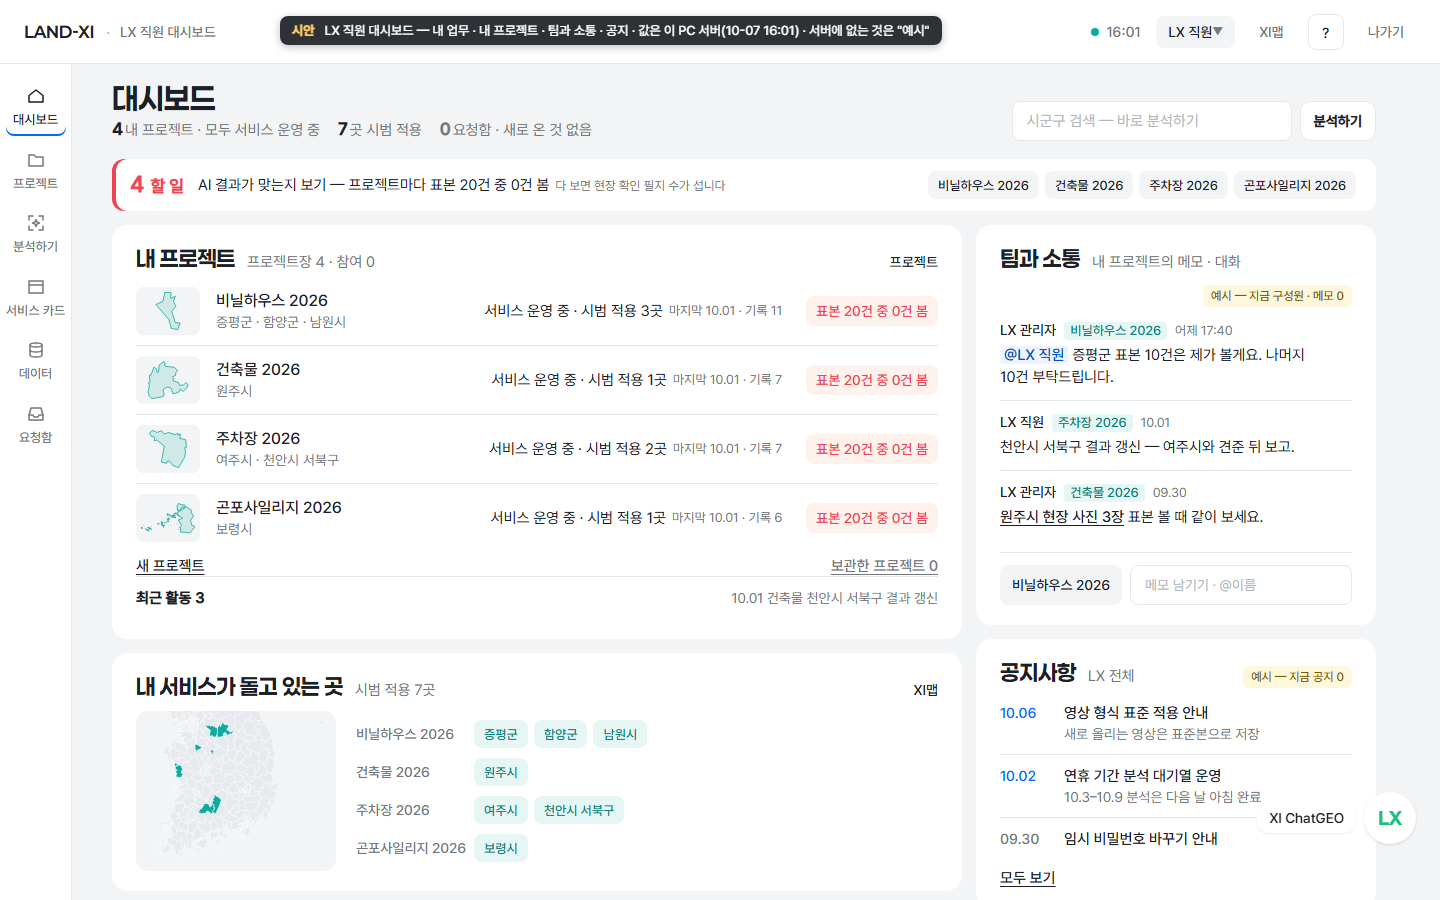
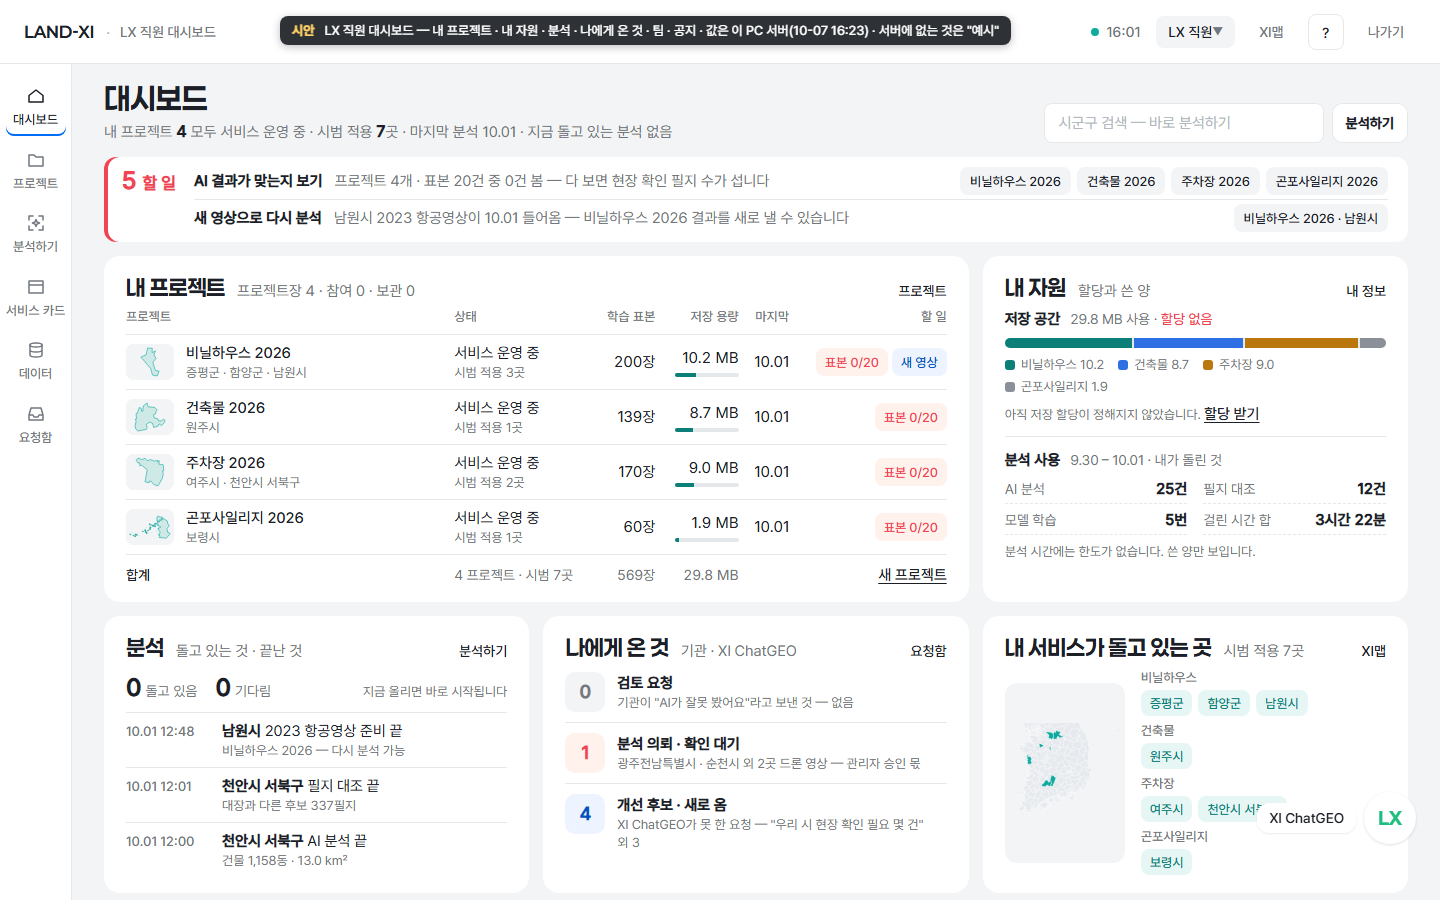
대시보드 확인 페이지 새 판 · '분석 요청' 말 맞춤
Claude-Session: https://claude.ai/code/session_012dngviZxpCDduyLESvgdha

diff --git a/landxi/proto/review/confirm/dash/index.html b/landxi/proto/review/confirm/dash/index.html
@@ -3,7 +3,7 @@
 <head>
 <meta charset="utf-8">
 <meta name="viewport" content="width=device-width,initial-scale=1">
-<title>Land-XI LX 직원 대시보드 — 내 일 중심</title>
+<title>Land-XI LX 직원 대시보드 — 다시</title>
 <link rel="icon" href="data:,">
 <link rel="stylesheet" href="../../../fonts-system.css">
 <style>
@@ -47,11 +47,11 @@ footer input{flex:1;min-width:200px;font:15px Pretendard,sans-serif;padding:10px
 </head>
 <body>
 <main class="w">
-<h1>LX 직원 대시보드 — 내 일 중심</h1>
-<p class="lead">먼저 미리보기를 열어 보세요: app.land-xi.dev/landxi/proto/review/lx-dashboard/index.html (할 일 없을 때는 주소 끝에 ?todo=0). 두 가지만 고르시면 됩니다.</p>
+<h1>LX 직원 대시보드 — 다시</h1>
+<p class="lead">먼저 미리보기를 열어 보세요: app.land-xi.dev/landxi/proto/review/lx-dashboard/index.html (할 일 없을 때 ?todo=0). 화면 넓이를 고르게 쓰고, 직원이 아침에 알고 싶은 것을 서버 값으로 담았습니다.</p>
 <div class="how"><b>보는 법</b> — 항목마다 <b>지금</b>(무엇이 문제인지) · <b>제안</b>(바뀐 뒤) · <b>보는 곳</b>(캡처, 그리고 직접 열어 볼 주소·계정·누를 곳)이 있습니다. 캡처를 누르면 크게 열립니다.<br>
 <b>고르는 법</b> — 버튼을 누르고, 고칠 점이 있으면 한 줄 적어 주세요. 고른 것은 이 브라우저에 저장됩니다. 다 고르시면 아래 <b>결정 복사</b>를 눌러 대화창에 붙여 넣어 주세요. 안 고른 항목은 그대로 두셔도 됩니다.</div>
-<section><h2>LX 직원 대시보드 — &#x27;홈&#x27;이 아니라 대시보드로, 내 일 중심(10-07 답 ⓐ · 모두 Land-XI · LX 직원 화면)</h2><p class="sub">시안 하나(new-dash-*)입니다. 숫자 · 이름 · 지역 · 기록 수는 10월 7일 16시에 로그인 폼으로 들어가 읽은 이 PC 서버의 실제 값이고, 서버에 없는 것(팀 메모 · 공지)은 칸 머리에 &#x27;예시&#x27;라고 적었습니다. 구 Land-XI 플랫폼 대시보드(공지 띠 · 큰 숫자 · 전국 판 · 프로젝트 현황 · 스토리지)를 표로 대조해 공지 · 전국 지도 · 프로젝트 현황의 자리는 이어받고 큰 숫자 띠 · 모델 이름 · 스토리지 · 방문 추세는 뺐습니다(README §1). 단추 · 글자 옆 그림 기호는 넣지 않았습니다(10-07 원칙 126). 미리보기: https://app.land-xi.dev/landxi/proto/review/lx-dashboard/index.html (할 일 없을 때 …/index.html?todo=0).</p><article class="c" data-id="대시-1" data-t="[화면][Land-XI] LX 직원 대시보드 — 이 구성으로 갈까"><header><span class="n">대시-1</span><h3>[화면][Land-XI] LX 직원 대시보드 — 이 구성으로 갈까</h3></header><div class="g"><div class="tx"><p class="k">지금</p><p>지금 홈은 내 프로젝트 3줄 · 우리 서비스(다른 사람 서비스의 운영 2 · 시범 5 · 장면 넷 · 기관 신고 · 재학습 필요) · 요청함 숫자 셋 · 바로 분석하기 · 최근 활동으로, 목록의 축소판이지 대시보드가 아니었습니다. 팀과 소통할 곳과 공지는 없었고, 프로젝트 줄에는 &#x27;6 서비스 관리 · 시범 3곳 · 결과 확인 0/20&#x27;처럼 한 상태가 세 가지 표기로 섰습니다. 10차에 두 방향(A · B)을 그렸지만 &quot;아직 이해가 안 된다&quot;는 답이었습니다.</p><p class="k">제안</p><p>이름은 &#x27;대시보드&#x27;(왼쪽 메뉴 첫 항목 · 마스트는 지금처럼 &#x27;LX 직원 대시보드&#x27;). 한 화면 = ① 머리 한 줄: &#x27;대시보드&#x27; + 작은 글(4 내 프로젝트 · 모두 서비스 운영 중 / 7곳 시범 적용 / 0 요청함 · 새로 온 것 없음) + 오른쪽 시군구 검색 — 바로 분석하기 ② 할 일 띠(있을 때만 · 대시-2) ③ 왼쪽 &#x27;내 프로젝트&#x27;: 줄 넷 — 시군구 모양 그림 · 이름 · 지역 · &#x27;서비스 운영 중 · 시범 적용 3곳&#x27; · &#x27;마지막 10.01 · 기록 11&#x27; · 빨간 꼬리표 &#x27;표본 20건 중 0건 봄&#x27;, 아래 새 프로젝트 · 보관 0 · 접힌 최근 활동 3 ④ 왼쪽 &#x27;내 서비스가 돌고 있는 곳&#x27;: 작은 전국 지도(행정경계 · 7곳 색칠) + 프로젝트별 지역 칩 — 구 대시보드 전국 판의 자리 ⑤ 오른쪽 &#x27;팀과 소통&#x27;: 내 프로젝트의 메모 · 대화 · @이름 부르기(프로젝트 한 장의 &#x27;기록 · 메모 · 파일&#x27;과 같은 곳 — 거기서 쓴 메모가 여기 모임) + 메모 남기기 칸 ⑥ 오른쪽 &#x27;공지사항&#x27;: LX 전체 최근 3 · 안 읽은 것은 날짜가 파랑. 다른 사람 서비스의 현황은 &#x27;서비스 카드&#x27; 메뉴에 그대로 두고 대시보드에서 뺐습니다(내 일 중심 ⓐ). 큰 숫자 띠 · 모델 이름 · 스토리지는 없습니다(규칙 2 · 내 저장 공간은 내 정보). 그림 기호 0. 1440 세로 932(할 일 없을 때 900 · 스크롤 0) · 첫 화면 버튼 1 · 휴대폰은 한 칸씩 세로.</p><p class="k">보는 곳</p><ul class="wh"><li><a href="https://app.land-xi.dev/landxi/proto/review/lx-dashboard/index.html" target="_blank" rel="noopener">app.land-xi.dev/landxi/proto/review/lx-dashboard/index.html</a><span>로그인 없이</span><em>시안 — 위 띠 · 왼쪽 두 칸 · 오른쪽 두 칸. 지금 홈(https://app.land-xi.dev/ · 아이디 test@lx.or.kr · 임시 비밀번호)과 견주어 보기</em></li></ul></div><div class="im"><figure><a href="img/new-dash-1440.png" target="_blank"><img src="img/new-dash-1440.png" alt="" loading="lazy"></a><figcaption>시안</figcaption></figure><figure><a href="img/new-dash-390.png" target="_blank"><img src="img/new-dash-390.png" alt="" loading="lazy"></a><figcaption>시안</figcaption></figure></div></div><footer><div class="op"><button type="button" data-v="ⓐ 이 구성대로">ⓐ 이 구성대로</button><button type="button" data-v="ⓑ 칸을 바꿔(어느 칸을 빼거나 더할지 메모)">ⓑ 칸을 바꿔(어느 칸을 빼거나 더할지 메모)</button><button type="button" data-v="ⓒ 다시">ⓒ 다시</button><button type="button" data-v="검토 필요">검토 필요</button></div><input type="text" placeholder="고칠 점이 있으면 한 줄" aria-label="메모"></footer></article><article class="c" data-id="대시-2" data-t="[화면][Land-XI] 할 일의 자리 — 있을 때만 한 줄 띠 + 줄의 꼬리표"><header><span class="n">대시-2</span><h3>[화면][Land-XI] 할 일의 자리 — 있을 때만 한 줄 띠 + 줄의 꼬리표</h3></header><div class="g"><div class="tx"><p class="k">지금</p><p>19차에 &quot;지금 할 일이 없다면 어떤 모습이지? 굳이 메인 대시보드에 있어야 하나? 너무 크게 의미없게 차지한다&quot;고 하셨습니다. 10차 방향 A는 &#x27;지금 할 일 하나&#x27;를 큰 칸으로, B는 체크 목록으로 두어 할 일이 없을 때 빈 칸이 남았습니다.</p><p class="k">제안</p><p>할 일은 큰 칸이 아니라 ① 머리 아래 &#x27;한 줄 띠&#x27;(높이 52px · 왼쪽 빨간 선 · &#x27;4 할 일 · AI 결과가 맞는지 보기 — 프로젝트마다 표본 20건 중 0건 봄&#x27; + 프로젝트 칩 넷)와 ② 내 프로젝트 줄마다 붙는 빨간 꼬리표(&#x27;표본 20건 중 0건 봄&#x27;)로만 보입니다. 할 일이 없으면 띠는 사라지고(빈 칸을 세우지 않음) 꼬리표는 회색 &#x27;할 일 없음&#x27;, 상태 글 앞에 &#x27;표본 20건 다 봄&#x27;이 붙습니다 — 그때 1440 은 스크롤 0 으로 다 들어옵니다(new-dash-empty-1440). 기관 검토 요청 · 분석 요청이 오면 같은 띠에 함께 섭니다(지금은 0).</p><p class="k">보는 곳</p><ul class="wh"><li><a href="https://app.land-xi.dev/landxi/proto/review/lx-dashboard/index.html?todo=0" target="_blank" rel="noopener">app.land-xi.dev/landxi/proto/review/lx-dashboard/index.html?todo=0</a><span>로그인 없이</span><em>할 일이 없을 때 — 띠가 없고 줄의 꼬리표만 바뀐 모습(…/index.html 과 번갈아 보기)</em></li></ul></div><div class="im"><figure><a href="img/new-dash-1440.png" target="_blank"><img src="img/new-dash-1440.png" alt="" loading="lazy"></a><figcaption>시안</figcaption></figure><figure><a href="img/new-dash-empty-1440.png" target="_blank"><img src="img/new-dash-empty-1440.png" alt="" loading="lazy"></a><figcaption>시안</figcaption></figure></div></div><footer><div class="op"><button type="button" data-v="ⓐ 띠 + 줄 꼬리표(시안대로)">ⓐ 띠 + 줄 꼬리표(시안대로)</button><button type="button" data-v="ⓑ 줄 꼬리표만(띠 없이)">ⓑ 줄 꼬리표만(띠 없이)</button><button type="button" data-v="ⓒ 다른 방식(메모)">ⓒ 다른 방식(메모)</button><button type="button" data-v="검토 필요">검토 필요</button></div><input type="text" placeholder="고칠 점이 있으면 한 줄" aria-label="메모"></footer></article></section>
+<section><h2>LX 직원 대시보드 — 다시(10-07 반려 뒤 · 모두 Land-XI · LX 직원 화면)</h2><p class="sub">앞 시안은 1920 화면에서 내용이 왼쪽 1344px 에 몰려 오른쪽 48% 가 비었고(판 넓이 제한), 칸은 사용자가 든 네 가지뿐이었습니다. 이번에는 ① LX 직원이 아침에 알고 싶은 것 12가지를 먼저 적고 서버에 있는지 하나씩 확인했습니다(README §2 — 프로젝트별 저장 용량 · 내 자원 · 내가 쓴 분석 · 돌고 있는 분석 · 끝난 결과 · 나에게 온 것은 서버에 있음, 팀 메모 · 공지만 &#x27;예시&#x27;). ② 12칸 격자로 넓이 전체를 고르게 썼습니다 — 칸 밖 빈 여백 1440 11.7% · 1920 9.7%(앞 시안 14.5% · 47.8%). 값은 10월 7일 16시 23분에 로그인 폼으로 읽은 서버 값입니다. 단추 · 글자 옆 그림 기호는 없습니다. 미리보기: https://app.land-xi.dev/landxi/proto/review/lx-dashboard/index.html (할 일 없을 때 …/index.html?todo=0).</p><article class="c" data-id="대시-1" data-t="[화면][Land-XI] LX 직원 대시보드 — 이 일곱 칸 · 12칸 격자 배치로 갈까(다시)"><header><span class="n">대시-1</span><h3>[화면][Land-XI] LX 직원 대시보드 — 이 일곱 칸 · 12칸 격자 배치로 갈까(다시)</h3></header><div class="g"><div class="tx"><p class="k">지금</p><p>앞 시안(반려): 내 프로젝트 · 돌고 있는 곳 · 팀과 소통 · 공지 네 칸을 왼쪽 1fr · 오른쪽 400px 두 줄에 세워, 1920 에서는 오른쪽이 통째로 비고 1440 에서도 줄 안이 비었습니다. 용량 · 자원 · 돌고 있는 분석 · 온 것처럼 직원이 매일 보는 것이 없었습니다.</p><p class="k">제안</p><p>한 화면 = 머리 한 줄(대시보드 · &#x27;내 프로젝트 4 모두 서비스 운영 중 · 시범 적용 7곳 · 마지막 분석 10.01 · 지금 돌고 있는 분석 없음&#x27; · 오른쪽 시군구 검색 — 분석하기) + 할 일 띠(있을 때만 · 대시-2) + 일곱 칸을 12칸 격자에: ① 내 프로젝트(8칸) — 표 한 장: 이름 · 지역 | 상태(서비스 운영 중 · 시범 n곳) | 학습 표본 200 · 139 · 170 · 60장 | 저장 용량 10.2 · 8.7 · 9.0 · 1.9 MB(작은 막대) | 마지막 10.01 | 할 일 꼬리표, 합계 줄(569장 · 29.8 MB · 새 프로젝트) ② 내 자원(4칸) — 저장 공간 29.8 MB 사용 · 할당 없음(프로젝트별 쌓은 막대 · &#x27;할당 받기&#x27;) + 분석 사용(9.30–10.01 내가 돌린 것: AI 분석 25건 · 필지 대조 12건 · 모델 학습 5번 · 걸린 시간 합 3시간 22분 · &#x27;한도 없음, 쓴 양만&#x27;) ③ 분석(4칸) — 돌고 있음 0 · 기다림 0 · 최근 끝난 것 3(남원시 영상 준비 끝 · 천안시 서북구 필지 대조 끝 337필지 · 천안시 서북구 AI 분석 끝 건물 1,158동) ④ 나에게 온 것(4칸) — 검토 요청 0 · 분석 요청 1 확인 대기(광주전남 · 관리자 승인 몫) · 개선 후보 4 새로 옴(XI ChatGEO 가 못 한 요청) ⑤ 내 서비스가 돌고 있는 곳(4칸) — 전국 지도 + 프로젝트별 지역 칩 7 ⑥ 팀과 소통(7칸 · 예시) ⑦ 공지사항(5칸 · 예시). 넓이 제한 없이 격자가 넓이를 나눠 1440 · 1920 모두 칸 밖 빈 여백 10% 안팎(앞 14.5% · 47.8%). 1280 이하는 6칸씩, 휴대폰은 한 칸씩(표는 줄 카드). 큰 숫자 띠 없음 · 그림 기호 0 · 다른 사람 서비스 현황은 서비스 카드 메뉴에 그대로.</p><p class="k">보는 곳</p><ul class="wh"><li><a href="https://app.land-xi.dev/landxi/proto/review/lx-dashboard/index.html" target="_blank" rel="noopener">app.land-xi.dev/landxi/proto/review/lx-dashboard/index.html</a><span>로그인 없이</span><em>시안 — 창을 넓혀도(1920) 칸이 넓이를 나눠 가짐. 지금 홈(https://app.land-xi.dev/ · 아이디 test@lx.or.kr · 임시 비밀번호)과 견주어 보기</em></li></ul></div><div class="im"><figure><a href="img/new-dash-1440.png" target="_blank"><img src="img/new-dash-1440.png" alt="" loading="lazy"></a><figcaption>시안</figcaption></figure><figure><a href="img/new-dash-390.png" target="_blank"><img src="img/new-dash-390.png" alt="" loading="lazy"></a><figcaption>시안</figcaption></figure></div></div><footer><div class="op"><button type="button" data-v="ⓐ 이 일곱 칸 · 이 배치대로">ⓐ 이 일곱 칸 · 이 배치대로</button><button type="button" data-v="ⓑ 칸을 바꿔(어느 칸을 빼거나 더할지 · 자리를 어디로 옮길지 메모)">ⓑ 칸을 바꿔(어느 칸을 빼거나 더할지 · 자리를 어디로 옮길지 메모)</button><button type="button" data-v="ⓒ 다시">ⓒ 다시</button><button type="button" data-v="검토 필요">검토 필요</button></div><input type="text" placeholder="고칠 점이 있으면 한 줄" aria-label="메모"></footer></article><article class="c" data-id="대시-2" data-t="[화면][Land-XI] 할 일의 자리 — 있을 때만 띠(할 일 종류마다 한 줄) + 표의 꼬리표(다시)"><header><span class="n">대시-2</span><h3>[화면][Land-XI] 할 일의 자리 — 있을 때만 띠(할 일 종류마다 한 줄) + 표의 꼬리표(다시)</h3></header><div class="g"><div class="tx"><p class="k">지금</p><p>19차에 &quot;지금 할 일이 없다면 어떤 모습이지? 굳이 메인 대시보드에 있어야 하나? 너무 크게 의미없게 차지한다&quot;고 하셨고, 앞 시안의 띠는 할 일 한 종류(표본 보기)만 한 줄로 세웠습니다. 서버에는 할 일이 두 종류 있었습니다 — 표본 보기 4 와 새 영상(남원시 10.01) 1.</p><p class="k">제안</p><p>할 일은 큰 칸이 아니라 ① 머리 아래 띠 — 왼쪽 빨간 &#x27;5 할 일&#x27;, 할 일 종류마다 한 줄(&#x27;AI 결과가 맞는지 보기 — 프로젝트 4개 · 표본 20건 중 0건 봄&#x27; + 프로젝트 칩 4 / &#x27;새 영상으로 다시 분석 — 남원시 2023 항공영상이 10.01 들어옴&#x27; + 칩 1), 줄마다 오른쪽 끝에 칩 ② 내 프로젝트 표의 &#x27;할 일&#x27; 열 꼬리표(&#x27;표본 0/20&#x27; 빨강 · &#x27;새 영상&#x27; 파랑)로만 보입니다. 할 일이 없으면 띠는 사라지고(빈 칸을 세우지 않음) 꼬리표는 회색 &#x27;없음&#x27;, 상태 아래 &#x27;표본 20건 다 봄&#x27;, 머리 한 줄에 &#x27;할 일 없음&#x27; — 그때도 나머지 여섯 칸은 그대로라 화면이 비어 보이지 않습니다(new-dash-empty-1440). 기관 검토 요청 · 분석 요청가 오면 같은 띠에 한 줄씩 더 섭니다(지금은 0 · 1).</p><p class="k">보는 곳</p><ul class="wh"><li><a href="https://app.land-xi.dev/landxi/proto/review/lx-dashboard/index.html?todo=0" target="_blank" rel="noopener">app.land-xi.dev/landxi/proto/review/lx-dashboard/index.html?todo=0</a><span>로그인 없이</span><em>할 일이 없을 때 — 띠가 없고 표의 꼬리표만 바뀐 모습(…/index.html 과 번갈아 보기)</em></li></ul></div><div class="im"><figure><a href="img/new-dash-1440.png" target="_blank"><img src="img/new-dash-1440.png" alt="" loading="lazy"></a><figcaption>시안</figcaption></figure><figure><a href="img/new-dash-empty-1440.png" target="_blank"><img src="img/new-dash-empty-1440.png" alt="" loading="lazy"></a><figcaption>시안</figcaption></figure></div></div><footer><div class="op"><button type="button" data-v="ⓐ 띠(종류마다 한 줄) + 표 꼬리표(시안대로)">ⓐ 띠(종류마다 한 줄) + 표 꼬리표(시안대로)</button><button type="button" data-v="ⓑ 표 꼬리표만(띠 없이)">ⓑ 표 꼬리표만(띠 없이)</button><button type="button" data-v="ⓒ 다른 방식(메모)">ⓒ 다른 방식(메모)</button><button type="button" data-v="검토 필요">검토 필요</button></div><input type="text" placeholder="고칠 점이 있으면 한 줄" aria-label="메모"></footer></article></section>
 </main>
 <div class="bar"><b id="cnt">0 / 2 고름</b><button type="button" id="copy">결정 복사</button><small id="msg"></small></div>
 <script>
@@ -68,7 +68,7 @@ for(const c of cards){const id=c.dataset.id,st=S[id]||{};const inp=c.querySelect
 count();
 document.getElementById('copy').onclick=async()=>{
   const lines=cards.filter(c=>(S[c.dataset.id]||{}).v||(S[c.dataset.id]||{}).m).map(c=>{const s=S[c.dataset.id];return '- '+c.dataset.id+' '+c.dataset.t+': '+(s.v||'(선택 없음)')+(s.m?' — '+s.m:'')});
-  const t='[LX 직원 대시보드 — 내 일 중심 결정 · '+new Date().toLocaleString('ko-KR')+']\n'+(lines.join('\n')||'(고른 항목 없음)');
+  const t='[LX 직원 대시보드 — 다시 결정 · '+new Date().toLocaleString('ko-KR')+']\n'+(lines.join('\n')||'(고른 항목 없음)');
   try{await navigator.clipboard.writeText(t);document.getElementById('msg').textContent='복사했습니다 — 대화창에 붙여 넣어 주세요'}catch{prompt('아래 글을 복사해 주세요',t)}};
 </script>
 </body>

diff --git a/docs/superpowers/final/process/design-r11/lx-dashboard/mock/index.html b/docs/superpowers/final/process/design-r11/lx-dashboard/mock/index.html
@@ -75,12 +75,12 @@
           </ul>
         </section>
 
-        <!-- ④ 나에게 온 것 — 검토 요청 · 분석 의뢰 · 개선 후보 (4칸) -->
+        <!-- ④ 나에게 온 것 — 검토 요청 · 분석 요청 · 개선 후보 (4칸) -->
         <section class="k c4" id="k-in">
           <div class="k-h"><h2>나에게 온 것</h2><span class="ksub">기관 · XI ChatGEO</span><span class="more">요청함</span></div>
           <ul class="inb">
             <li><span class="n z">0</span><span class="t"><b>검토 요청</b><small>기관이 "AI가 잘못 봤어요"라고 보낸 것 — 없음</small></span></li>
-            <li><span class="n">1</span><span class="t"><b>분석 의뢰 · 확인 대기</b><small>광주전남특별시 · 순천시 외 2곳 드론 영상 — 관리자 승인 몫</small></span></li>
+            <li><span class="n">1</span><span class="t"><b>분석 요청 · 확인 대기</b><small>광주전남특별시 · 순천시 외 2곳 드론 영상 — 관리자 승인 몫</small></span></li>
             <li><span class="n acc">4</span><span class="t"><b>개선 후보 · 새로 옴</b><small>XI ChatGEO가 못 한 요청 — "우리 시 현장 확인 필요 몇 건" 외 3</small></span></li>
           </ul>
         </section>

diff --git a/landxi/proto/review/lx-dashboard/index.html b/landxi/proto/review/lx-dashboard/index.html
@@ -75,12 +75,12 @@
           </ul>
         </section>
 
-        <!-- ④ 나에게 온 것 — 검토 요청 · 분석 의뢰 · 개선 후보 (4칸) -->
+        <!-- ④ 나에게 온 것 — 검토 요청 · 분석 요청 · 개선 후보 (4칸) -->
         <section class="k c4" id="k-in">
           <div class="k-h"><h2>나에게 온 것</h2><span class="ksub">기관 · XI ChatGEO</span><span class="more">요청함</span></div>
           <ul class="inb">
             <li><span class="n z">0</span><span class="t"><b>검토 요청</b><small>기관이 "AI가 잘못 봤어요"라고 보낸 것 — 없음</small></span></li>
-            <li><span class="n">1</span><span class="t"><b>분석 의뢰 · 확인 대기</b><small>광주전남특별시 · 순천시 외 2곳 드론 영상 — 관리자 승인 몫</small></span></li>
+            <li><span class="n">1</span><span class="t"><b>분석 요청 · 확인 대기</b><small>광주전남특별시 · 순천시 외 2곳 드론 영상 — 관리자 승인 몫</small></span></li>
             <li><span class="n acc">4</span><span class="t"><b>개선 후보 · 새로 옴</b><small>XI ChatGEO가 못 한 요청 — "우리 시 현장 확인 필요 몇 건" 외 3</small></span></li>
           </ul>
         </section>
